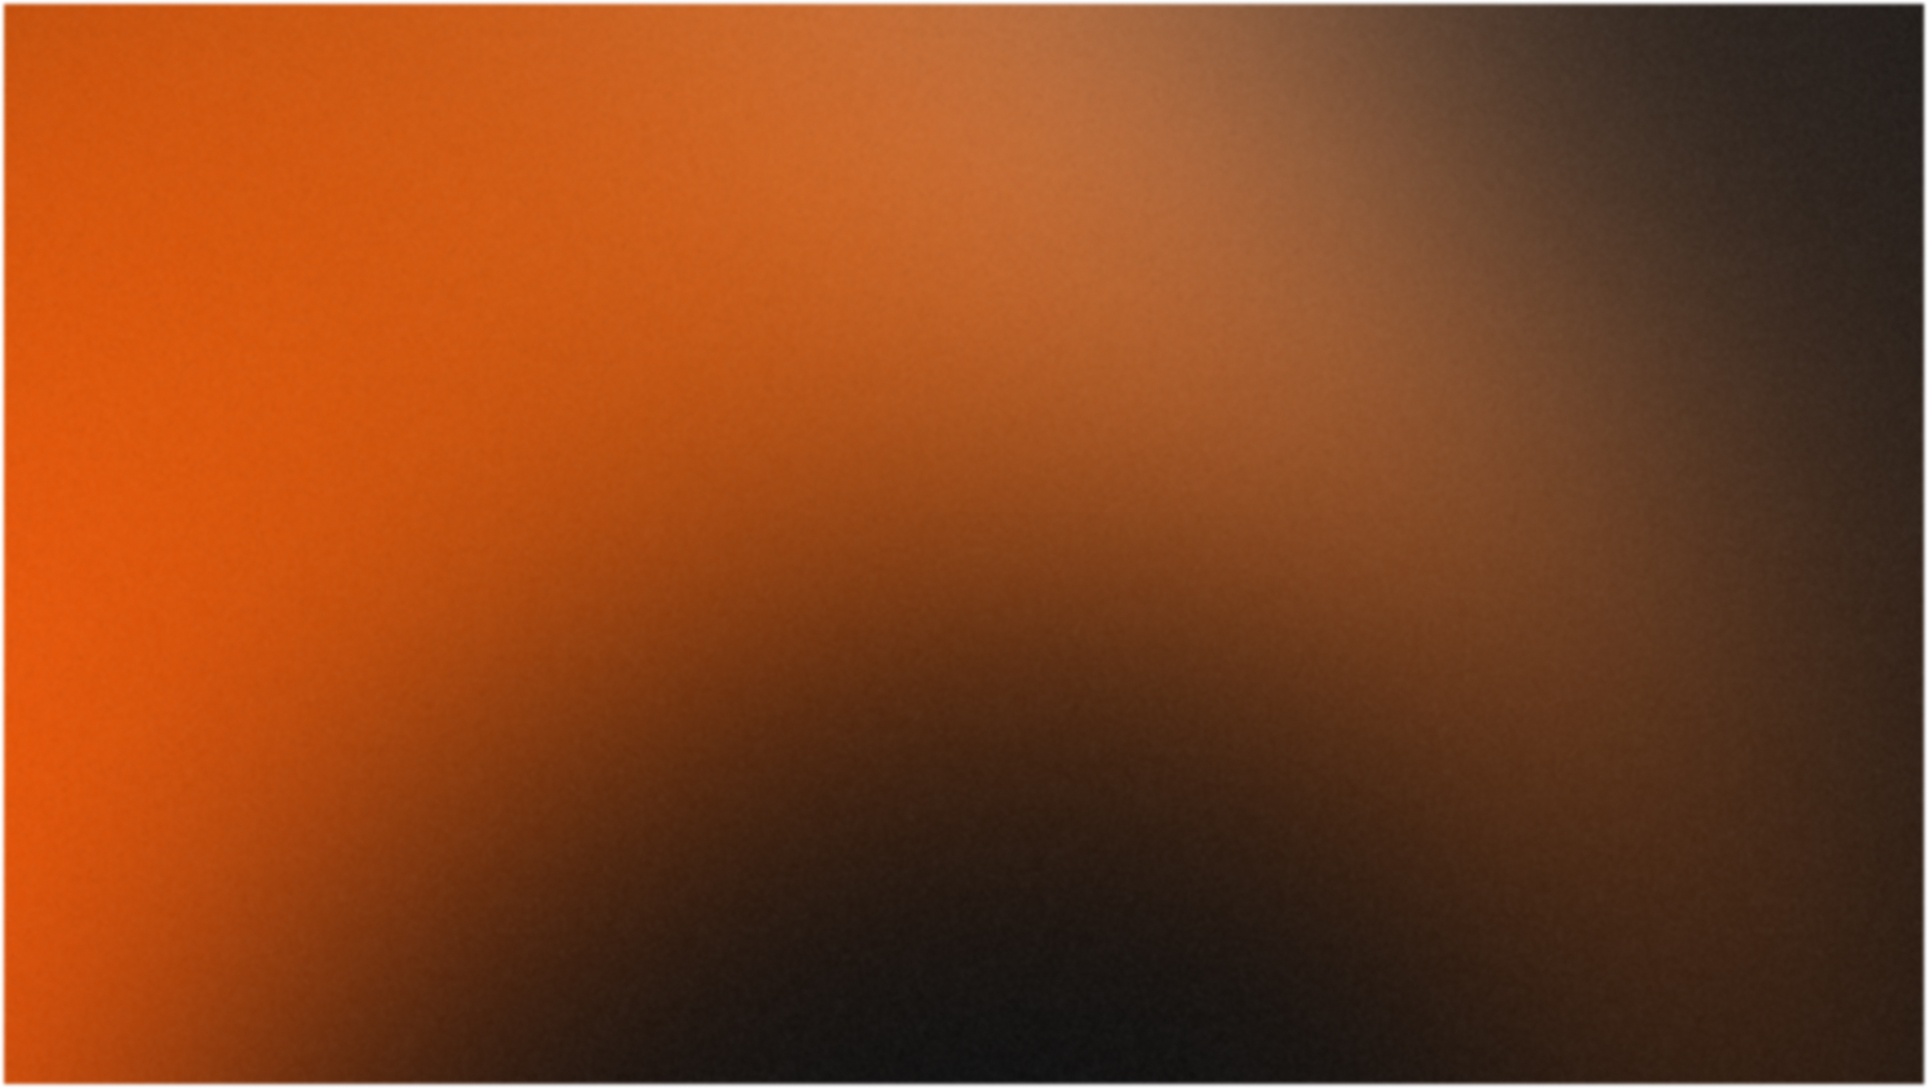
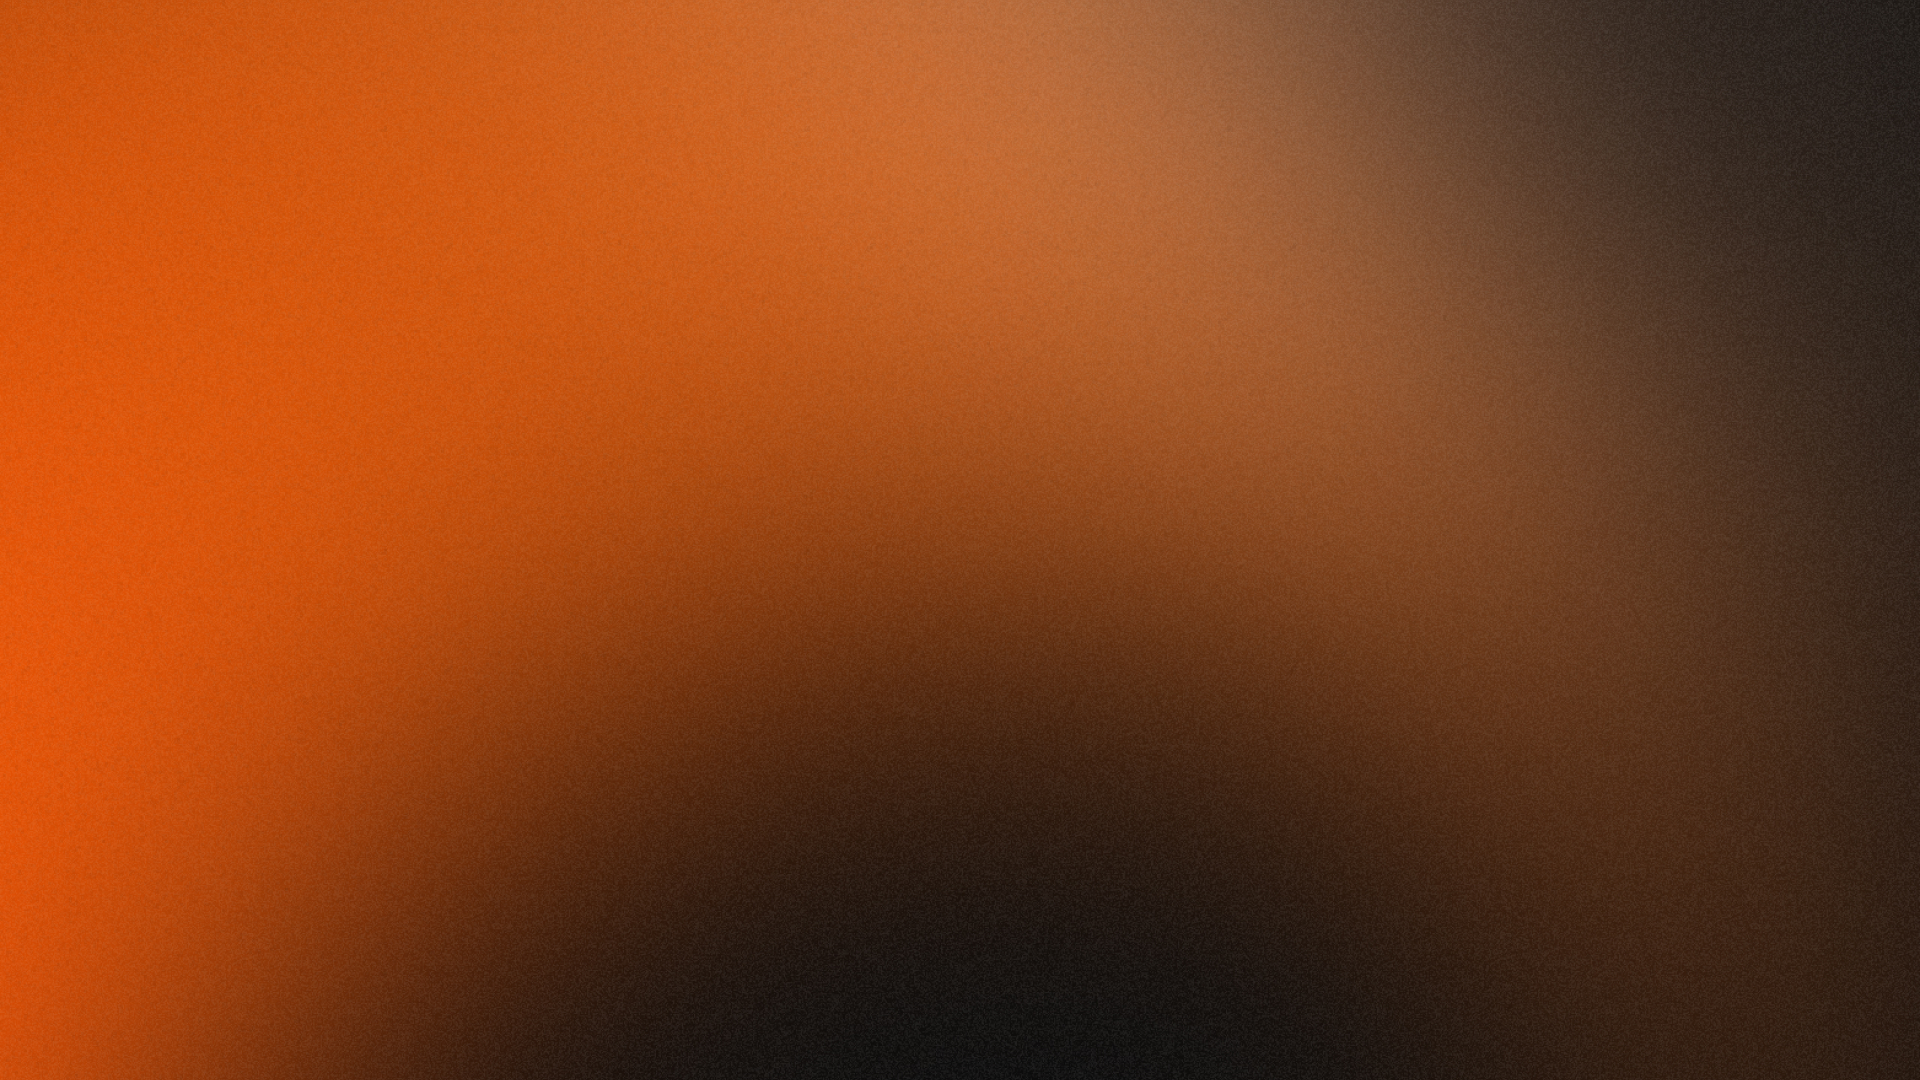
bgs

Changed region(s): [[0.0, 0.0917, 1.0, 1.0], [0.0, 0.0, 1.0, 0.0611], [0.9688, 0.0917, 1.0, 0.3667]]

diff --git a/config/assets.ts b/config/assets.ts
@@ -1,55 +1,70 @@
 export const assets = {
-  headshot: 'https://zdntzuxuw3xqvcia.public.blob.vercel-storage.com/headshot.jpg',
-  'hero-carousel': {
-    eatin: 'https://zdntzuxuw3xqvcia.public.blob.vercel-storage.com/hero-carousel/eatin.png',
-    'hiking-2':
-      'https://zdntzuxuw3xqvcia.public.blob.vercel-storage.com/hero-carousel/hiking-2.png',
-    hiking: 'https://zdntzuxuw3xqvcia.public.blob.vercel-storage.com/hero-carousel/hiking.png',
-    'speaking-2':
-      'https://zdntzuxuw3xqvcia.public.blob.vercel-storage.com/hero-carousel/speaking-2.png',
-    'speaking-3':
-      'https://zdntzuxuw3xqvcia.public.blob.vercel-storage.com/hero-carousel/speaking-3.png',
-    speaking: 'https://zdntzuxuw3xqvcia.public.blob.vercel-storage.com/hero-carousel/speaking.png',
-    'workin-2':
-      'https://zdntzuxuw3xqvcia.public.blob.vercel-storage.com/hero-carousel/workin-2.png',
-    workin: 'https://zdntzuxuw3xqvcia.public.blob.vercel-storage.com/hero-carousel/workin.png',
+  "bg": {
+    "bg-0": "https://zdntzuxuw3xqvcia.public.blob.vercel-storage.com/bg/bg-0.jpg",
+    "bg-1": "https://zdntzuxuw3xqvcia.public.blob.vercel-storage.com/bg/bg-1.jpg",
+    "bg-10": "https://zdntzuxuw3xqvcia.public.blob.vercel-storage.com/bg/bg-10.jpg",
+    "bg-11": "https://zdntzuxuw3xqvcia.public.blob.vercel-storage.com/bg/bg-11.jpg",
+    "bg-12": "https://zdntzuxuw3xqvcia.public.blob.vercel-storage.com/bg/bg-12.jpg",
+    "bg-13": "https://zdntzuxuw3xqvcia.public.blob.vercel-storage.com/bg/bg-13.jpg",
+    "bg-14": "https://zdntzuxuw3xqvcia.public.blob.vercel-storage.com/bg/bg-14.jpg",
+    "bg-15": "https://zdntzuxuw3xqvcia.public.blob.vercel-storage.com/bg/bg-15.jpg",
+    "bg-16": "https://zdntzuxuw3xqvcia.public.blob.vercel-storage.com/bg/bg-16.jpg",
+    "bg-17": "https://zdntzuxuw3xqvcia.public.blob.vercel-storage.com/bg/bg-17.jpg",
+    "bg-18": "https://zdntzuxuw3xqvcia.public.blob.vercel-storage.com/bg/bg-18.jpg",
+    "bg-19": "https://zdntzuxuw3xqvcia.public.blob.vercel-storage.com/bg/bg-19.jpg",
+    "bg-2": "https://zdntzuxuw3xqvcia.public.blob.vercel-storage.com/bg/bg-2.jpg",
+    "bg-3": "https://zdntzuxuw3xqvcia.public.blob.vercel-storage.com/bg/bg-3.jpg",
+    "bg-4": "https://zdntzuxuw3xqvcia.public.blob.vercel-storage.com/bg/bg-4.jpg",
+    "bg-5": "https://zdntzuxuw3xqvcia.public.blob.vercel-storage.com/bg/bg-5.jpg",
+    "bg-6": "https://zdntzuxuw3xqvcia.public.blob.vercel-storage.com/bg/bg-6.jpg",
+    "bg-7": "https://zdntzuxuw3xqvcia.public.blob.vercel-storage.com/bg/bg-7.jpg",
+    "bg-8": "https://zdntzuxuw3xqvcia.public.blob.vercel-storage.com/bg/bg-8.jpg",
+    "bg-9": "https://zdntzuxuw3xqvcia.public.blob.vercel-storage.com/bg/bg-9.jpg"
   },
-  lifts: {
-    bench: 'https://zdntzuxuw3xqvcia.public.blob.vercel-storage.com/lifts/bench.mp4',
-    dead: 'https://zdntzuxuw3xqvcia.public.blob.vercel-storage.com/lifts/dead.mp4',
-    squat: 'https://zdntzuxuw3xqvcia.public.blob.vercel-storage.com/lifts/squat.mp4',
+  "headshot": "https://zdntzuxuw3xqvcia.public.blob.vercel-storage.com/headshot.jpg",
+  "hero-carousel": {
+    "eatin": "https://zdntzuxuw3xqvcia.public.blob.vercel-storage.com/hero-carousel/eatin.png",
+    "hiking-2": "https://zdntzuxuw3xqvcia.public.blob.vercel-storage.com/hero-carousel/hiking-2.png",
+    "hiking": "https://zdntzuxuw3xqvcia.public.blob.vercel-storage.com/hero-carousel/hiking.png",
+    "speaking-2": "https://zdntzuxuw3xqvcia.public.blob.vercel-storage.com/hero-carousel/speaking-2.png",
+    "speaking-3": "https://zdntzuxuw3xqvcia.public.blob.vercel-storage.com/hero-carousel/speaking-3.png",
+    "speaking": "https://zdntzuxuw3xqvcia.public.blob.vercel-storage.com/hero-carousel/speaking.png",
+    "workin-2": "https://zdntzuxuw3xqvcia.public.blob.vercel-storage.com/hero-carousel/workin-2.png",
+    "workin": "https://zdntzuxuw3xqvcia.public.blob.vercel-storage.com/hero-carousel/workin.png"
   },
-  'logo-carousel': {
-    Linkedin: 'https://zdntzuxuw3xqvcia.public.blob.vercel-storage.com/logo-carousel/Linkedin.svg',
-    a16z: 'https://zdntzuxuw3xqvcia.public.blob.vercel-storage.com/logo-carousel/a16z.svg',
-    bytewax: 'https://zdntzuxuw3xqvcia.public.blob.vercel-storage.com/logo-carousel/bytewax.svg',
-    'coalesce-logo':
-      'https://zdntzuxuw3xqvcia.public.blob.vercel-storage.com/logo-carousel/coalesce-logo.svg',
-    databricks:
-      'https://zdntzuxuw3xqvcia.public.blob.vercel-storage.com/logo-carousel/databricks.svg',
-    hex: 'https://zdntzuxuw3xqvcia.public.blob.vercel-storage.com/logo-carousel/hex.svg',
-    oreilly: 'https://zdntzuxuw3xqvcia.public.blob.vercel-storage.com/logo-carousel/oreilly.svg',
-    replit: 'https://zdntzuxuw3xqvcia.public.blob.vercel-storage.com/logo-carousel/replit.svg',
-    tobiko: 'https://zdntzuxuw3xqvcia.public.blob.vercel-storage.com/logo-carousel/tobiko.svg',
-    xai: 'https://zdntzuxuw3xqvcia.public.blob.vercel-storage.com/logo-carousel/xai.svg',
-    yc: 'https://zdntzuxuw3xqvcia.public.blob.vercel-storage.com/logo-carousel/yc.svg',
+  "lifts": {
+    "bench": "https://zdntzuxuw3xqvcia.public.blob.vercel-storage.com/lifts/bench.mp4",
+    "dead": "https://zdntzuxuw3xqvcia.public.blob.vercel-storage.com/lifts/dead.mp4",
+    "squat": "https://zdntzuxuw3xqvcia.public.blob.vercel-storage.com/lifts/squat.mp4"
   },
-  projects: {
-    uetl: 'https://zdntzuxuw3xqvcia.public.blob.vercel-storage.com/projects/uetl.png',
-    vid2gif: 'https://zdntzuxuw3xqvcia.public.blob.vercel-storage.com/projects/vid2gif.gif',
-    wtw: 'https://zdntzuxuw3xqvcia.public.blob.vercel-storage.com/projects/wtw.gif',
-    xai: 'https://zdntzuxuw3xqvcia.public.blob.vercel-storage.com/projects/xai.jpeg',
-    yc: 'https://zdntzuxuw3xqvcia.public.blob.vercel-storage.com/projects/yc.jpeg',
-    youtube: 'https://zdntzuxuw3xqvcia.public.blob.vercel-storage.com/projects/youtube.jpg',
+  "logo-carousel": {
+    "Linkedin": "https://zdntzuxuw3xqvcia.public.blob.vercel-storage.com/logo-carousel/Linkedin.svg",
+    "a16z": "https://zdntzuxuw3xqvcia.public.blob.vercel-storage.com/logo-carousel/a16z.svg",
+    "bytewax": "https://zdntzuxuw3xqvcia.public.blob.vercel-storage.com/logo-carousel/bytewax.svg",
+    "coalesce-logo": "https://zdntzuxuw3xqvcia.public.blob.vercel-storage.com/logo-carousel/coalesce-logo.svg",
+    "databricks": "https://zdntzuxuw3xqvcia.public.blob.vercel-storage.com/logo-carousel/databricks.svg",
+    "hex": "https://zdntzuxuw3xqvcia.public.blob.vercel-storage.com/logo-carousel/hex.svg",
+    "oreilly": "https://zdntzuxuw3xqvcia.public.blob.vercel-storage.com/logo-carousel/oreilly.svg",
+    "replit": "https://zdntzuxuw3xqvcia.public.blob.vercel-storage.com/logo-carousel/replit.svg",
+    "tobiko": "https://zdntzuxuw3xqvcia.public.blob.vercel-storage.com/logo-carousel/tobiko.svg",
+    "xai": "https://zdntzuxuw3xqvcia.public.blob.vercel-storage.com/logo-carousel/xai.svg",
+    "yc": "https://zdntzuxuw3xqvcia.public.blob.vercel-storage.com/logo-carousel/yc.svg"
   },
-  replit: 'https://zdntzuxuw3xqvcia.public.blob.vercel-storage.com/replit.svg',
-  robots: 'https://zdntzuxuw3xqvcia.public.blob.vercel-storage.com/robots.txt',
-  sitemap: 'https://zdntzuxuw3xqvcia.public.blob.vercel-storage.com/sitemap.xml',
-  whitepapers: {
-    'orm-data-transformation':
-      'https://zdntzuxuw3xqvcia.public.blob.vercel-storage.com/whitepapers/orm-data-transformation.pdf',
-    'orm-uetl': 'https://zdntzuxuw3xqvcia.public.blob.vercel-storage.com/whitepapers/orm-uetl.pdf',
+  "projects": {
+    "uetl": "https://zdntzuxuw3xqvcia.public.blob.vercel-storage.com/projects/uetl.png",
+    "vid2gif": "https://zdntzuxuw3xqvcia.public.blob.vercel-storage.com/projects/vid2gif.gif",
+    "wtw": "https://zdntzuxuw3xqvcia.public.blob.vercel-storage.com/projects/wtw.gif",
+    "xai": "https://zdntzuxuw3xqvcia.public.blob.vercel-storage.com/projects/xai.jpeg",
+    "yc": "https://zdntzuxuw3xqvcia.public.blob.vercel-storage.com/projects/yc.jpeg",
+    "youtube": "https://zdntzuxuw3xqvcia.public.blob.vercel-storage.com/projects/youtube.jpg"
   },
+  "replit": "https://zdntzuxuw3xqvcia.public.blob.vercel-storage.com/replit.svg",
+  "robots": "https://zdntzuxuw3xqvcia.public.blob.vercel-storage.com/robots.txt",
+  "sitemap": "https://zdntzuxuw3xqvcia.public.blob.vercel-storage.com/sitemap.xml",
+  "whitepapers": {
+    "orm-data-transformation": "https://zdntzuxuw3xqvcia.public.blob.vercel-storage.com/whitepapers/orm-data-transformation.pdf",
+    "orm-uetl": "https://zdntzuxuw3xqvcia.public.blob.vercel-storage.com/whitepapers/orm-uetl.pdf"
+  }
 } as const;
 
 export type AssetUrl = string;

diff --git a/app/api/og/route.tsx b/app/api/og/route.tsx
@@ -1,14 +1,21 @@
 import { ImageResponse } from 'next/og';
 import { siteConfig } from '@/app/metadata';
+import { assets } from '@/config/assets';
 
 export const runtime = 'edge';
 
 export async function GET(request: Request) {
   try {
     const { searchParams } = new URL(request.url);
-    const title = searchParams.get('title') ?? 'Matt Palmer';
-    const subtitle = searchParams.get('subtitle');
-    const { origin } = new URL(request.url);
+    const title = searchParams.get('title') ?? siteConfig.author;
+    const subtitle = searchParams.get('subtitle') ?? siteConfig.description;
+    const bgNumber = searchParams.get('bg');
+
+    // Use specific bg if provided and valid, otherwise use random
+    const background =
+      bgNumber && Number(bgNumber) >= 0 && Number(bgNumber) <= 19
+        ? assets.bg[`bg-${bgNumber}` as keyof typeof assets.bg]
+        : assets.bg[`bg-${Math.floor(Math.random() * 20)}` as keyof typeof assets.bg];
 
     // Load the Inter font files
     const interRegular = await fetch(
@@ -29,13 +36,12 @@ export async function GET(request: Request) {
             flexDirection: 'column',
             alignItems: 'center',
             justifyContent: 'center',
-            background: `url(${origin}/og-base.png)`,
+            background: `url(${background})`,
             backgroundSize: '100% 100%',
             backgroundPosition: 'center',
             position: 'relative',
           }}
         >
-          {/* Gradient overlay remains the same */}
           <div />
 
           {/* Content container */}
@@ -120,7 +126,7 @@ export async function GET(request: Request) {
                   margin: 0,
                 }}
               >
-                {new URL(siteConfig.baseUrl || '').host}
+                {new URL(siteConfig.baseUrl || '').href}
               </p>
             </div>
           </div>

diff --git a/scripts/upload-assets.ts b/scripts/upload-assets.ts
@@ -3,12 +3,30 @@ import fs from 'fs/promises';
 import path from 'path';
 import dotenv from 'dotenv';
 import crypto from 'crypto';
+import ignore from 'ignore';
+import { promises as fsPromises } from 'fs';
 
 // Load environment variables
 dotenv.config({ path: '.env.local' });
 
 const PUBLIC_DIR = path.join(process.cwd(), 'public');
 const ASSETS_FILE = path.join(process.cwd(), 'config', 'assets.ts');
+
+// Initialize ignore instance
+let ig: ReturnType<typeof ignore>;
+
+async function initializeGitignore() {
+  ig = ignore();
+  try {
+    const gitignoreContent = await fsPromises.readFile(
+      path.join(process.cwd(), '.gitignore'),
+      'utf8'
+    );
+    ig.add(gitignoreContent);
+  } catch (error) {
+    console.warn('No .gitignore file found, proceeding without ignore rules');
+  }
+}
 
 // Helper to calculate file hash
 async function calculateFileHash(filePath: string): Promise<string> {
@@ -83,6 +101,13 @@ async function getAllLocalFiles(dir: string, baseDir: string = ''): Promise<stri
     const fullPath = path.join(dir, entry.name);
     const relativePath = path.join(baseDir, entry.name);
 
+    // Check if path is ignored by gitignore
+    const relativeToRoot = path.relative(process.cwd(), fullPath);
+    if (ig.ignores(relativeToRoot)) {
+      console.log(`Skipping ignored path: ${relativeToRoot}`);
+      continue;
+    }
+
     if (entry.isDirectory()) {
       files.push(...(await getAllLocalFiles(fullPath, relativePath)));
     } else {
@@ -147,6 +172,8 @@ async function processFiles(localFiles: string[], existingBlobs: Map<string, str
 
 async function uploadAssets() {
   try {
+    await initializeGitignore();
+
     // Get all existing blobs
     const existingBlobs = await list();
     const existingUrlMap = new Map(

diff --git a/scripts/generate-og-backgrounds.ts b/scripts/generate-og-backgrounds.ts
@@ -1,0 +1,46 @@
+import fs from 'fs/promises';
+import path from 'path';
+
+const OUTPUT_DIR = path.join(process.cwd(), 'public', '.og-backgrounds');
+
+async function generateBackgrounds() {
+  try {
+    // Create output directory if it doesn't exist
+    await fs.mkdir(OUTPUT_DIR, { recursive: true });
+
+    // Generate backgrounds for indices 0-19
+    for (let i = 0; i < 20; i++) {
+      console.log(`Generating background ${i}...`);
+
+      // Call the OG API endpoint with the bg parameter
+      const response = await fetch(`http://localhost:3000/api/og?bg=${i}`, {
+        headers: {
+          // Some Next.js middleware might require this
+          'User-Agent': 'node-fetch',
+        },
+      });
+
+      if (!response.ok) {
+        throw new Error(`Failed to generate background ${i}: ${response.statusText}`);
+      }
+
+      const buffer = await response.arrayBuffer();
+      await fs.writeFile(path.join(OUTPUT_DIR, `bg-${i}.png`), Buffer.from(buffer));
+
+      console.log(`Generated background ${i}`);
+    }
+
+    // Create .gitignore in the output directory
+    await fs.writeFile(path.join(OUTPUT_DIR, '.gitignore'), '*\n!.gitignore\n');
+
+    console.log('All backgrounds generated successfully!');
+  } catch (error) {
+    console.error('Error generating backgrounds:', error);
+    process.exit(1);
+  }
+}
+
+// Make sure the development server is running before executing this script
+console.log('Make sure your Next.js development server is running on http://localhost:3000');
+console.log('Starting background generation...');
+generateBackgrounds();
